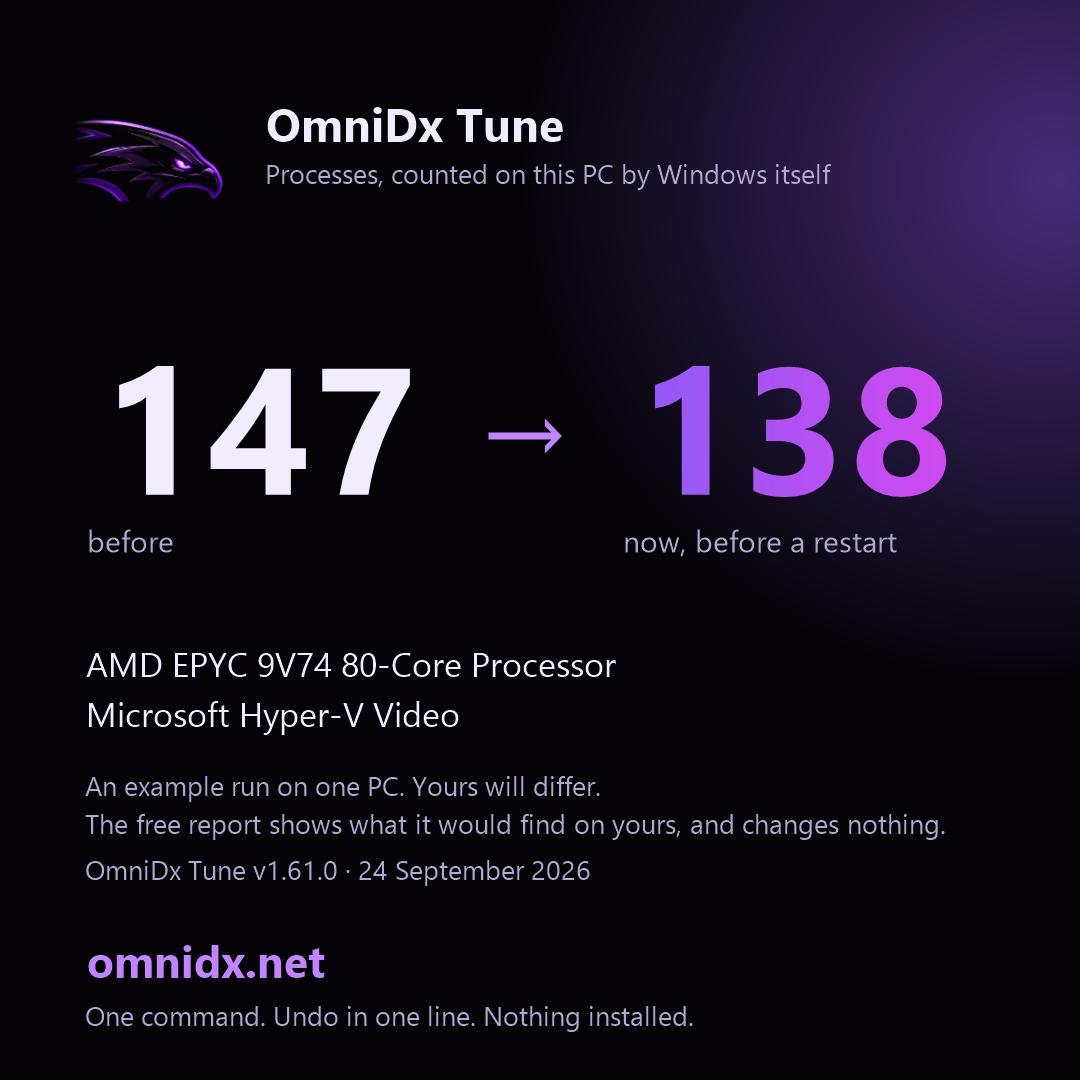
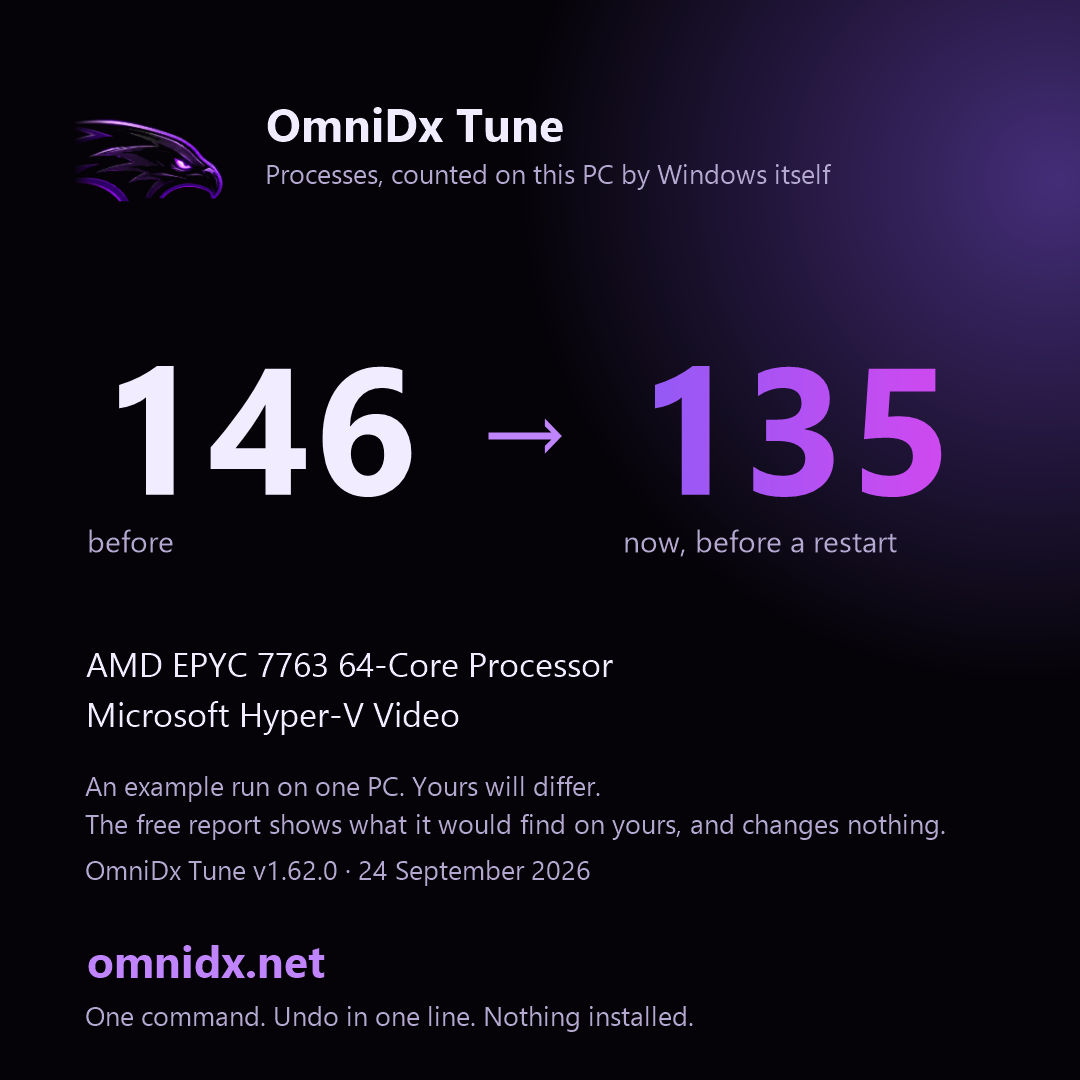
Windows check: the app window, the numbers, the log, and the script this run verified

diff --git a/studio/assets/ci-report.html b/studio/assets/ci-report.html
@@ -1,5 +1,5 @@
 <!doctype html><html lang="en"><head><meta charset="utf-8"><meta name="viewport" content="width=device-width,initial-scale=1">
-<title>OmniDx Tune report - 2026-09-24_09-20-35</title>
+<title>OmniDx Tune report - 2026-09-24_09-37-21</title>
 <style>
 body{margin:0;background:#050308;color:#f1ecff;font:15px/1.6 -apple-system,'Segoe UI',Roboto,system-ui,sans-serif}
 main{max-width:860px;margin:0 auto;padding:36px 20px 80px}
@@ -17,29 +17,84 @@ details{margin:10px 0;background:#0e0a17;border:1px solid #2a1f45;border-radius:
 details pre{font:12.5px/1.5 ui-monospace,Consolas,monospace;color:#b3a8cf;overflow:auto;max-height:420px;margin:10px 0 4px}
 .bios ul{list-style:none;padding-left:2px}.bios li{margin:8px 0;color:#f1ecff}.bios{background:#0e0a17;border:1px solid #2a1f45;border-radius:14px;padding:6px 18px}
 </style></head><body><main>
-<h1><img src="https://omnidx.net/studio/assets/icons/icon-192.png" alt="" width="44" height="44" style="vertical-align:middle;margin-right:10px" onerror="this.remove()">OmniDx Tune <span class="muted" style="font-size:16px">v1.61.0</span></h1>
-<p class="sub">Thursday, September 24, 2026 9:22 AM &middot; AMD EPYC 9V74 80-Core Processor &middot; Microsoft Hyper-V Video &middot; 16 GB &middot; Microsoft Corporation Virtual Machine</p>
-<div class="big"><div><b>147</b><span>processes before</span></div><div><b>138</b><span>now, before a restart</span></div><div><b>~70</b><span>target for this PC after a restart</span></div></div>
+<h1><img src="https://omnidx.net/studio/assets/icons/icon-192.png" alt="" width="44" height="44" style="vertical-align:middle;margin-right:10px" onerror="this.remove()">OmniDx Tune <span class="muted" style="font-size:16px">v1.62.0</span></h1>
+<p class="sub">Thursday, September 24, 2026 9:38 AM &middot; AMD EPYC 7763 64-Core Processor &middot; Microsoft Hyper-V Video &middot; 16 GB &middot; Microsoft Corporation Virtual Machine</p>
+<div class="big"><div><b>146</b><span>processes before</span></div><div><b>135</b><span>now, before a restart</span></div><div><b>~70</b><span>target for this PC after a restart</span></div></div>
 <p class='muted'>The card, for posting (the same numbers, on one picture): <code>ci-card.png</code></p><img src='ci-card.png' alt='Before and after, on a card' style='max-width:340px;width:100%;border-radius:14px;border:1px solid #2a1f45'>
 <p class="muted">Many of the "now" processes are only waiting to be stopped. The number after a restart is the one that counts; <code>C:\OmniDx\after-restart.txt</code> gets it at your next sign-in. Kept cut: a task at each sign-in puts back what a Windows update turns on; undo removes it.</p>
 <h2>Next steps</h2><ol><li>Restart. The services told to stop are still unwinding until you do, and the after-restart count lands in C:\OmniDx\after-restart.txt at your next sign-in, with the boot time of that start next to the one from before the tune.</li><li>BIOS: items 1 to 3 (memory profile, Re-Size BAR, CSM). Ten minutes, and the memory profile alone is the biggest free gain any PC has.</li><li>GPU control panel: low latency mode, power management and V-Sync, from the list below. Two minutes.</li><li>Launchers and overlays: the list below names the one or two settings in each that matter; the overlays are the usual cause of a stutter that &quot;came from nowhere&quot;.</li><li>Any time: $env:OMNIDX_MODE=&#39;status&#39;; irm omnidx.net/go.ps1 | iex shows what is still in place; undo is one line, and it is in this report.</li></ol>
-<h2>Before and after</h2><table><tr><th></th><th>Before</th><th>Now</th></tr><tr><td>Processes</td><td>147</td><td>138</td></tr><tr><td>Threads</td><td>1394</td><td>1401</td></tr><tr><td>Handles</td><td>50094</td><td>47551</td></tr><tr><td>Memory in use</td><td>3165 MB</td><td>3359 MB</td></tr><tr><td>Idle CPU</td><td>2%</td><td>3.6%</td></tr><tr><td>DPC time</td><td>0.13%</td><td>0.13%</td></tr></table>
-<h2>Gone, by name</h2><p class='muted'>Running before, not running now: spoolsv, VSSVC</p>
-<details><summary>Every process, before (60 names)</summary><pre>svchost                                  x78     1,193 MB
+<h2>Before and after</h2><table><tr><th></th><th>Before</th><th>Now</th></tr><tr><td>Processes</td><td>146</td><td>135</td></tr><tr><td>Threads</td><td>1463</td><td>1445</td></tr><tr><td>Handles</td><td>48860</td><td>46353</td></tr><tr><td>Memory in use</td><td>2797 MB</td><td>2905 MB</td></tr><tr><td>Idle CPU</td><td>1.4%</td><td>0.9%</td></tr><tr><td>DPC time</td><td>0.13%</td><td>0%</td></tr></table>
+<h2>Gone, by name</h2><p class='muted'>Running before, not running now: smartscreen, spoolsv</p>
+<details><summary>Every process, before (56 names)</summary><pre>svchost                                  x80     1,207 MB
 conhost                                  x4         34 MB
-taskhostw                                x3         92 MB
+taskhostw                                x3         68 MB
+WmiPrvSE                                 x3         62 MB
 csrss                                    x2         14 MB
 fontdrvhost                              x2         11 MB
 notepad                                  x2         59 MB
 SMSvcHost                                x2         50 MB
-WmiPrvSE                                 x2         44 MB
-AzureArcSysTray                          x1         20 MB
-CompatTelRunner                          x1         32 MB
-ctfmon                                   x1         31 MB
+AzureArcSysTray                          x1         19 MB
+ctfmon                                   x1         25 MB
 DefenderSessionHelper                    x1          6 MB
 dockerd                                  x1         46 MB
 dwm                                      x1         76 MB
-explorer                                 x1        160 MB
+explorer                                 x1        159 MB
+hosted-compute-agent                     x1         19 MB
+Idle                                     x1          0 MB
+LsaIso                                   x1          4 MB
+lsass                                    x1         31 MB
+MpDefenderCoreService                    x1         30 MB
+mqsvc                                    x1         19 MB
+msdtc                                    x1         14 MB
+MsMpEng                                  x1        101 MB
+node                                     x1         43 MB
+OpenConsole                              x1         14 MB
+powershell                               x1        166 MB
+provjobd.exe3302063047                   x1         26 MB
+Registry                                 x1         43 MB
+Runner.Listener                          x1         71 MB
+Runner.Worker                            x1        101 MB
+RuntimeBroker                            x1         47 MB
+SearchHost                               x1        109 MB
+Secure System                            x1         52 MB
+SecurityHealthService                    x1         12 MB
+ServiceFabricLocalClusterManager         x1         36 MB
+services                                 x1         12 MB
+ShellHost                                x1         42 MB
+sihost                                   x1         43 MB
+smartscreen                              x1         12 MB
+smss                                     x1          2 MB
+spoolsv                                  x1         22 MB
+sqlwriter                                x1         11 MB
+sshd                                     x1          9 MB
+StartMenuExperienceHost                  x1        130 MB
+System                                   x1          0 MB
+TiWorker                                 x1         27 MB
+TrustedInstaller                         x1         10 MB
+UserOOBEBroker                           x1         11 MB
+vmcompute                                x1         11 MB
+vmms                                     x1         33 MB
+WaAppAgent                               x1         86 MB
+WaSecAgentProv                           x1          5 MB
+WindowsAzureGuestAgent                   x1         69 MB
+WindowsTerminal                          x1         85 MB
+wininit                                  x1          9 MB
+winlogon                                 x1         13 MB
+wslservice                               x1         29 MB</pre></details><details><summary>Every process, after (55 names)</summary><pre>svchost                                  x70     1,064 MB
+conhost                                  x4         34 MB
+taskhostw                                x3         66 MB
+WmiPrvSE                                 x3         68 MB
+csrss                                    x2         14 MB
+fontdrvhost                              x2         11 MB
+notepad                                  x2         59 MB
+SMSvcHost                                x2         50 MB
+AzureArcSysTray                          x1         20 MB
+ctfmon                                   x1         31 MB
+DefenderSessionHelper                    x1          6 MB
+dllhost                                  x1         13 MB
+dockerd                                  x1         46 MB
+dwm                                      x1         76 MB
+explorer                                 x1        158 MB
 hosted-compute-agent                     x1         17 MB
 Idle                                     x1          0 MB
 LsaIso                                   x1          4 MB
@@ -47,102 +102,39 @@ lsass                                    x1         31 MB
 MpDefenderCoreService                    x1         30 MB
 mqsvc                                    x1         19 MB
 msdtc                                    x1         14 MB
-MsMpEng                                  x1         77 MB
-node                                     x1         43 MB
-OpenConsole                              x1         14 MB
-powershell                               x1        170 MB
-provjobd.exe2108833472                   x1         21 MB
-Registry                                 x1         58 MB
-Runner.Listener                          x1         71 MB
-Runner.Worker                            x1        100 MB
-RuntimeBroker                            x1         48 MB
-SearchHost                               x1        109 MB
-Secure System                            x1         52 MB
-SecurityHealthService                    x1         28 MB
-ServiceFabricLocalClusterManager         x1         36 MB
-services                                 x1         11 MB
-ShellHost                                x1         42 MB
-sihost                                   x1         43 MB
-smartscreen                              x1         13 MB
-smss                                     x1          2 MB
-spoolsv                                  x1         22 MB
-sqlwriter                                x1         11 MB
-sshd                                     x1          9 MB
-StartMenuExperienceHost                  x1        130 MB
-System                                   x1          0 MB
-SystemPropertiesPerformance              x1         14 MB
-TiWorker                                 x1         28 MB
-TrustedInstaller                         x1         10 MB
-UserOOBEBroker                           x1         11 MB
-vmcompute                                x1         11 MB
-vmms                                     x1         34 MB
-VSSVC                                    x1         12 MB
-WaAppAgent                               x1         84 MB
-WaSecAgentProv                           x1          5 MB
-WindowsAzureGuestAgent                   x1         65 MB
-WindowsTerminal                          x1         85 MB
-wininit                                  x1          9 MB
-winlogon                                 x1         13 MB
-wslservice                               x1         28 MB
-WUDFHost                                 x1         12 MB</pre></details><details><summary>Every process, after (59 names)</summary><pre>svchost                                  x70     1,062 MB
-conhost                                  x4         34 MB
-taskhostw                                x3         91 MB
-csrss                                    x2         14 MB
-fontdrvhost                              x2         11 MB
-notepad                                  x2         59 MB
-SMSvcHost                                x2         50 MB
-WmiPrvSE                                 x2         52 MB
-AzureArcSysTray                          x1         20 MB
-CompatTelRunner                          x1         32 MB
-ctfmon                                   x1         31 MB
-DefenderSessionHelper                    x1          6 MB
-dllhost                                  x1         13 MB
-dockerd                                  x1         46 MB
-dwm                                      x1         76 MB
-explorer                                 x1        161 MB
-hosted-compute-agent                     x1         16 MB
-Idle                                     x1          0 MB
-LsaIso                                   x1          4 MB
-lsass                                    x1         31 MB
-MpDefenderCoreService                    x1         30 MB
-mqsvc                                    x1         19 MB
-msdtc                                    x1         14 MB
-MsMpEng                                  x1         76 MB
+MsMpEng                                  x1         96 MB
 node                                     x1         41 MB
 OpenConsole                              x1         14 MB
-powershell                               x1        212 MB
-provjobd.exe2108833472                   x1         20 MB
-Registry                                 x1         64 MB
-Runner.Listener                          x1         62 MB
-Runner.Worker                            x1         94 MB
+powershell                               x1        193 MB
+provjobd.exe3302063047                   x1         21 MB
+Registry                                 x1         65 MB
+Runner.Listener                          x1         73 MB
+Runner.Worker                            x1        100 MB
 RuntimeBroker                            x1         47 MB
 SearchHost                               x1        109 MB
 Secure System                            x1         52 MB
-SecurityHealthService                    x1         28 MB
+SecurityHealthService                    x1         12 MB
 ServiceFabricLocalClusterManager         x1         36 MB
 services                                 x1         11 MB
 ShellHost                                x1         42 MB
 sihost                                   x1         43 MB
-smartscreen                              x1         13 MB
 smss                                     x1          2 MB
 sqlwriter                                x1         11 MB
 sshd                                     x1          9 MB
 StartMenuExperienceHost                  x1        131 MB
 System                                   x1          0 MB
-SystemPropertiesPerformance              x1         14 MB
-TiWorker                                 x1         39 MB
+TiWorker                                 x1         38 MB
 TrustedInstaller                         x1         10 MB
 UserOOBEBroker                           x1         11 MB
 vmcompute                                x1         11 MB
 vmms                                     x1         34 MB
-WaAppAgent                               x1         84 MB
+WaAppAgent                               x1         87 MB
 WaSecAgentProv                           x1          5 MB
-WindowsAzureGuestAgent                   x1         65 MB
+WindowsAzureGuestAgent                   x1         69 MB
 WindowsTerminal                          x1         85 MB
 wininit                                  x1          9 MB
 winlogon                                 x1         13 MB
-wslservice                               x1         28 MB
-WUDFHost                                 x1         12 MB</pre></details>
+wslservice                               x1         29 MB</pre></details>
 <h2>Kept, and why</h2><ul><li>Defender, the firewall, Windows Update, audio, networking: always</li><li>Themes: Windows 10 falls back to the classic look without it</li><li>vmicguestinterface: this is a virtual machine</li><li>vmicheartbeat: this is a virtual machine</li><li>vmickvpexchange: this is a virtual machine</li><li>vmicrdv: this is a virtual machine</li><li>vmicshutdown: this is a virtual machine</li><li>vmictimesync: this is a virtual machine</li><li>vmicvmsession: this is a virtual machine</li><li>vmicvss: this is a virtual machine</li></ul>
 <h2>Warnings (3)</h2><div class="warn"><ul><li>The GPU driver dates from Jun 2006. A current driver is worth more than most tweaks.</li><li>This looks like a virtual machine. The tune will run, but the numbers mean little here.</li><li>Could not make a restore point (This functionality is not supported on this operating system.). The undo script still records everything.</li></ul></div>
 <h2>BIOS checklist for Microsoft Corporation Virtual Machine</h2><div class="bios"><ul><li>How to get in: restart, then press Del or F2 while the logo shows.</li><li>Where things are: the Advanced / Overclocking pages for memory, the PCI or Chipset page for Above 4G / Re-Size BAR, the Boot page for CSM, the Security page for TPM and Secure Boot.</li><li>1. Memory profile: enable EXPO (or DOCP / A-XMP on older boards). Your RAM is running at the slow default until you do; this is the single biggest free gain on any PC. Pick the profile matching the speed printed on the sticks.</li><li>2. Re-Size BAR / Smart Access Memory: set Above 4G Decoding = Enabled, then Re-Size BAR Support = Auto/Enabled. Needs CSM off (next line). Worth 5-15% in many games on RTX 30/40/50 and RX 6000+.</li><li>3. CSM (Compatibility Support Module): Disabled. You already boot UEFI, so nothing depends on it, and Re-Size BAR needs it off.</li><li>4. Secure Boot: Enabled. Windows 11 and Vanguard expect it; on 10 it costs nothing. Set OS Type / Secure Boot Mode to Windows UEFI if asked.</li><li>5. TPM: not detected. Enable AMD fTPM (AMD) or Intel PTT (Intel) under Security / Trusted Computing. VALORANT on Windows 11 will not run without it.</li><li>6. Precision Boost Overdrive: Enabled (or Advanced with the Curve Optimizer at a modest negative offset like -15 all-core if you know your cooler). Never a positive voltage offset.</li><li>7. Global C-states / package C-states: Auto is fine. Disabling them buys nothing measurable in games and raises idle heat.</li><li>8. Fast Boot: Enabled. Full Screen Logo / Boot Logo: Disabled (a second off every boot).</li><li>9. Fan curves: set the CPU fan to reach 100% by 80 C and the case fans to a steady ramp. Sustained boost needs airflow more than anything.</li><li>10. Onboard devices you do not use: serial port, Wi-Fi/Bluetooth if wired, onboard audio if you use USB audio, RGB controllers. Each one removed is an interrupt source gone.</li><li>11. HPET: leave at default. The &#39;disable HPET&#39; tweak is from 2013 and hurts more than it helps on modern Windows.</li><li>12. Virtualisation (SVM / VT-x): leave on if you use WSL, Docker, an emulator, or play VALORANT or on FACEIT (their anti-cheat needs it, with IOMMU); otherwise off saves a little scheduling overhead.</li><li>After saving: Windows will boot normally. If it does not (rare, usually CSM), go back in and re-enable the last thing you changed.</li><li>Do not update the BIOS unless the vendor&#39;s notes mention a fix for your exact problem; a failed flash is the one thing here that cannot be undone from Windows.</li></ul></div>
@@ -150,8 +142,8 @@ WUDFHost                                 x1         12 MB</pre></details>
 <h2>Launchers, overlays and helper apps</h2><ul><li>None of the usual launchers, overlays or peripheral suites found. The same notes apply the day you install one; run the command again and they appear here.</li></ul>
 <h2>Left by other tools</h2><p class="muted">The tune changes none of these; it names them, with the way back.</p><ul><li>Nothing found: no other tool has left Defender, Windows Update, SmartScreen, User Account Control or the CPU mitigations switched off on this PC.</li></ul>
 <h2>Per game</h2><p class='muted'>Not found on this PC (the same profile applies if you install them): Fortnite, VALORANT, Counter-Strike 2, Marvel Rivals, Apex Legends, Call of Duty (Warzone / MW), Overwatch 2, Rainbow Six Siege, Rocket League, Minecraft, Roblox, League of Legends, GTA V / Online, Rust, Escape from Tarkov, PUBG, The Finals, Dota 2, Battlefield 6, Deadlock, Delta Force, ARC Raiders, Helldivers 2, Warframe, Destiny 2, Halo Infinite, Dead by Daylight, Hunt: Showdown 1896, War Thunder, World of Warcraft, Squad, Battlefield 2042, EA Sports FC 26, NBA 2K26, Palworld, Path of Exile 2, Diablo IV, Monster Hunter Wilds, Elden Ring / Nightreign, Cyberpunk 2077, Baldur&#39;s Gate 3, Star Citizen, DayZ, Arma Reforger, Hell Let Loose, Genshin Impact, Ready or Not, Final Fantasy XIV, STALKER 2, Sea of Thieves</p>
-<h2>What was done</h2><h4>Safety first</h4><div class='did'>Registry and service list backed up to C:\OmniDx\backup\2026-09-24_09-20-35</div><div class='did'>undo.ps1 written to C:\OmniDx\undo</div><h4>Startup apps</h4><div class='did'>off: AzureArcSetup</div><div class='did'>off: Service Fabric Local Cluster Manager (Startup folder)</div><h4>Services</h4><div class='did'>dmwappushservice -&gt; disabled  (telemetry push)</div><div class='did'>WerSvc -&gt; disabled  (error reporting)</div><div class='did'>wercplsupport -&gt; disabled  (error reporting)</div><div class='did'>PcaSvc -&gt; disabled  (compatibility assistant)</div><div class='did'>lfsvc -&gt; disabled  (geolocation)</div><div class='did'>RemoteRegistry -&gt; disabled  (remote registry)</div><div class='did'>WMPNetworkSvc -&gt; disabled  (media sharing)</div><div class='did'>TrkWks -&gt; disabled  (link tracking)</div><div class='did'>WalletService -&gt; disabled  (wallet)</div><div class='did'>wisvc -&gt; disabled  (insider program)</div><div class='did'>SEMgrSvc -&gt; disabled  (payments and NFC)</div><div class='did'>TapiSrv -&gt; disabled  (telephony)</div><div class='did'>SharedAccess -&gt; disabled  (internet connection sharing)</div><div class='did'>edgeupdate -&gt; manual  (Edge updater (runs on demand))</div><div class='did'>WbioSrvc -&gt; disabled  (biometrics)</div><div class='did'>SysMain already disabled; left that way</div><div class='did'>WSearch already disabled; left that way</div><div class='did'>Spooler -&gt; disabled  (print spooler)</div><div class='did'>bthserv -&gt; disabled  (bluetooth)</div><div class='did'>WlanSvc -&gt; disabled  (wi-fi)</div><div class='did'>CDPSvc -&gt; manual  (connected devices)</div><div class='did'>CDPUserSvc already disabled; left that way</div><div class='did'>OneSyncSvc already disabled; left that way</div><div class='did'>PimIndexMaintenanceSvc already disabled; left that way</div><div class='did'>UnistoreSvc already disabled; left that way</div><div class='did'>UserDataSvc already disabled; left that way</div><div class='did'>SSDPSRV already disabled; left that way</div><div class='did'>upnphost already disabled; left that way</div><div class='did'>DPS -&gt; manual  (diagnostic policy)</div><div class='did'>SCardSvr -&gt; disabled  (smart card)</div><div class='did'>ScDeviceEnum -&gt; disabled  (smart card)</div><div class='did'>CertPropSvc -&gt; disabled  (smart card)</div><div class='did'>iphlpsvc -&gt; manual  (ipv6 tunnels)</div><div class='did'>cbdhsvc -&gt; manual  (clipboard history)</div><div class='did'>WpnService -&gt; manual  (push notifications)</div><div class='did'>WpnUserService -&gt; manual  (push notifications)</div><div class='did'>SNMPTRAP -&gt; disabled  (SNMP traps)</div><div class='did'>workfolderssvc -&gt; disabled  (Work Folders sync)</div><h4>Scheduled tasks</h4><div class='did'>PcaPatchDbTask</div><div class='did'>CreateObjectTask</div><div class='did'>Device</div><div class='did'>Device User</div><div class='did'>LoginCheck</div><div class='did'>WindowsActionDialog</div><div class='did'>OobeDiscovery</div><div class='did'>Diagnostics</div><div class='did'>UsageDataFlushing</div><div class='did'>UsageDataReporting</div><div class='did'>Registration</div><div class='did'>IndexerAutomaticMaintenance</div><div class='did'>Storage Tiers Management Initialization</div><div class='did'>UPnPHostConfig</div><div class='did'>ResolutionHost</div><div class='did'>UpdateLibrary</div><div class='did'>Work Folders Logon Synchronization</div><div class='did'>Work Folders Maintenance Work</div><h4>Preinstalled apps</h4><div class='did'>Microsoft.WindowsFeedbackHub</div><h4>Debloat</h4><div class='did'>removed Steps Recorder (screenshots every click, retired by Microsoft)</div><div class='did'>removed the 2009 Windows Media Player (the Store one stays)</div><div class='did'>removed Math Input Panel</div><div class='did'>removed Internet Explorer 11</div><div class='did'>off: Work Folders (corporate sync)</div><div class='did'>Edge: shopping assistant, recommendations, Spotlight, feedback prompts and reporting off</div><div class='did'>Kept gone: consumer features, suggested apps, account nags and the &#39;finish setting up&#39; screen are off by policy</div><h4>Telemetry, background activity, the shell</h4><div class='did'>Telemetry, the advertising id, activity history, suggestions, Bing in Start, Recall and Edge&#39;s reporting off; background apps off; widgets, news, Copilot and Cortana off; Game DVR off, Game Mode on; the classic right-click menu on 11</div><h4>System tuning</h4><div class='did'>NTFS last-access stamps off</div><div class='did'>NTFS allowed more memory for its cache</div><div class='did'>Defender&#39;s scheduled scans already capped at 5% of the CPU, lower than the tune&#39;s 25%: left as it is</div><h4>The OmniDx power plan</h4><div class='did'>2 plan setting(s) this PC does not have were skipped.</div><div class='did'>OmniDx plan created and active: CPU 100/100, boost aggressive, energy preference on performance, no core parking, no throttle states on a desktop, PCIe, USB and Wi-Fi power saving off, no sleep on mains.</div><h4>Network</h4><div class='did'>TCP: autotuning normal, ECN and timestamps off, receive-side scaling on, segment coalescing off, CTCP.</div><div class='did'>Ethernet 4: Interrupt Moderation off</div><div class='did'>Ethernet 4: Nagle off, power saving off</div><div class='did'>Ethernet 3: Nagle off, power saving off</div><h4>Discord, Spotify, browsers</h4><div class='did'>Chrome: no background mode, hardware acceleration on</div><div class='did'>Edge: no startup boost, no background mode, hardware acceleration on</div><h4>Game profiles</h4><div class='did'>No listed game found on the usual drives; the CPU-priority profiles are in place for when one is installed.</div><h4>Cleanup</h4><div class='did'>Temp files, the Windows Update download cache and the peer-to-peer update cache cleared: about 374 MB back.</div><h4>Keeping it cut</h4><div class='did'>Task &#39;OmniDx keep&#39; runs three minutes after sign-in, puts back whatever an update turned on, notes that start&#39;s boot time and writes card-after-restart.png with that start&#39;s count. Log: C:\OmniDx\keep-log.txt. Undo removes it.</div>
-<h2>Undo</h2><p>Administrator PowerShell: <code>powershell -ExecutionPolicy Bypass -File C:\OmniDx\undo\undo.ps1</code><br>No restore point was made on this run (see the warnings); the undo script is the way back.<br>Changes recorded in <code>C:\OmniDx\undo\changes-2026-09-24_09-20-35.json</code>.</p>
+<h2>What was done</h2><h4>Safety first</h4><div class='did'>Registry and service list backed up to C:\OmniDx\backup\2026-09-24_09-37-21</div><div class='did'>undo.ps1 written to C:\OmniDx\undo</div><h4>Startup apps</h4><div class='did'>off: AzureArcSetup</div><div class='did'>off: Service Fabric Local Cluster Manager (Startup folder)</div><h4>Services</h4><div class='did'>dmwappushservice -&gt; disabled  (telemetry push)</div><div class='did'>WerSvc -&gt; disabled  (error reporting)</div><div class='did'>wercplsupport -&gt; disabled  (error reporting)</div><div class='did'>PcaSvc -&gt; disabled  (compatibility assistant)</div><div class='did'>lfsvc -&gt; disabled  (geolocation)</div><div class='did'>RemoteRegistry -&gt; disabled  (remote registry)</div><div class='did'>WMPNetworkSvc -&gt; disabled  (media sharing)</div><div class='did'>TrkWks -&gt; disabled  (link tracking)</div><div class='did'>WalletService -&gt; disabled  (wallet)</div><div class='did'>wisvc -&gt; disabled  (insider program)</div><div class='did'>SEMgrSvc -&gt; disabled  (payments and NFC)</div><div class='did'>TapiSrv -&gt; disabled  (telephony)</div><div class='did'>SharedAccess -&gt; disabled  (internet connection sharing)</div><div class='did'>edgeupdate -&gt; manual  (Edge updater (runs on demand))</div><div class='did'>WbioSrvc -&gt; disabled  (biometrics)</div><div class='did'>SysMain already disabled; left that way</div><div class='did'>WSearch already disabled; left that way</div><div class='did'>Spooler -&gt; disabled  (print spooler)</div><div class='did'>bthserv -&gt; disabled  (bluetooth)</div><div class='did'>WlanSvc -&gt; disabled  (wi-fi)</div><div class='did'>CDPSvc -&gt; manual  (connected devices)</div><div class='did'>CDPUserSvc already disabled; left that way</div><div class='did'>OneSyncSvc already disabled; left that way</div><div class='did'>PimIndexMaintenanceSvc already disabled; left that way</div><div class='did'>UnistoreSvc already disabled; left that way</div><div class='did'>UserDataSvc already disabled; left that way</div><div class='did'>SSDPSRV already disabled; left that way</div><div class='did'>upnphost already disabled; left that way</div><div class='did'>DPS -&gt; manual  (diagnostic policy)</div><div class='did'>SCardSvr -&gt; disabled  (smart card)</div><div class='did'>ScDeviceEnum -&gt; disabled  (smart card)</div><div class='did'>CertPropSvc -&gt; disabled  (smart card)</div><div class='did'>iphlpsvc -&gt; manual  (ipv6 tunnels)</div><div class='did'>cbdhsvc -&gt; manual  (clipboard history)</div><div class='did'>WpnService -&gt; manual  (push notifications)</div><div class='did'>WpnUserService -&gt; manual  (push notifications)</div><div class='did'>SNMPTRAP -&gt; disabled  (SNMP traps)</div><div class='did'>workfolderssvc -&gt; disabled  (Work Folders sync)</div><h4>Scheduled tasks</h4><div class='did'>PcaPatchDbTask</div><div class='did'>CreateObjectTask</div><div class='did'>Device</div><div class='did'>Device User</div><div class='did'>LoginCheck</div><div class='did'>WindowsActionDialog</div><div class='did'>OobeDiscovery</div><div class='did'>Diagnostics</div><div class='did'>UsageDataFlushing</div><div class='did'>UsageDataReporting</div><div class='did'>Registration</div><div class='did'>IndexerAutomaticMaintenance</div><div class='did'>Storage Tiers Management Initialization</div><div class='did'>UPnPHostConfig</div><div class='did'>ResolutionHost</div><div class='did'>UpdateLibrary</div><div class='did'>Work Folders Logon Synchronization</div><div class='did'>Work Folders Maintenance Work</div><h4>Preinstalled apps</h4><div class='did'>Microsoft.WindowsFeedbackHub</div><h4>Debloat</h4><div class='did'>removed Steps Recorder (screenshots every click, retired by Microsoft)</div><div class='did'>removed the 2009 Windows Media Player (the Store one stays)</div><div class='did'>removed Math Input Panel</div><div class='did'>removed Internet Explorer 11</div><div class='did'>off: Work Folders (corporate sync)</div><div class='did'>Edge: shopping assistant, recommendations, Spotlight, feedback prompts and reporting off</div><div class='did'>Kept gone: consumer features, suggested apps, account nags and the &#39;finish setting up&#39; screen are off by policy</div><h4>Telemetry, background activity, the shell</h4><div class='did'>Telemetry, the advertising id, activity history, suggestions, Bing in Start, Recall and Edge&#39;s reporting off; background apps off; widgets, news, Copilot and Cortana off; Game DVR off, Game Mode on; the classic right-click menu on 11</div><h4>System tuning</h4><div class='did'>NTFS last-access stamps off</div><div class='did'>NTFS allowed more memory for its cache</div><div class='did'>Defender&#39;s scheduled scans already capped at 5% of the CPU, lower than the tune&#39;s 25%: left as it is</div><h4>The OmniDx power plan</h4><div class='did'>2 plan setting(s) this PC does not have were skipped.</div><div class='did'>OmniDx plan created and active: CPU 100/100, boost aggressive, energy preference on performance, no core parking, no throttle states on a desktop, PCIe, USB and Wi-Fi power saving off, no sleep on mains.</div><h4>Network</h4><div class='did'>TCP: autotuning normal, ECN and timestamps off, receive-side scaling on, segment coalescing off, CTCP.</div><div class='did'>Ethernet 4: Interrupt Moderation off</div><div class='did'>Ethernet 4: Nagle off, power saving off</div><div class='did'>Ethernet 3: Nagle off, power saving off</div><h4>Discord, Spotify, browsers</h4><div class='did'>Chrome: no background mode, hardware acceleration on</div><div class='did'>Edge: no startup boost, no background mode, hardware acceleration on</div><h4>Game profiles</h4><div class='did'>No listed game found on the usual drives; the CPU-priority profiles are in place for when one is installed.</div><h4>Cleanup</h4><div class='did'>Temp files, the Windows Update download cache and the peer-to-peer update cache cleared: about 374 MB back.</div><h4>Keeping it cut</h4><div class='did'>Task &#39;OmniDx keep&#39; runs three minutes after sign-in, puts back whatever an update turned on, notes that start&#39;s boot time and writes card-after-restart.png with that start&#39;s count. Log: C:\OmniDx\keep-log.txt. Undo removes it.</div>
+<h2>Undo</h2><p>Administrator PowerShell: <code>powershell -ExecutionPolicy Bypass -File C:\OmniDx\undo\undo.ps1</code><br>No restore point was made on this run (see the warnings); the undo script is the way back.<br>Changes recorded in <code>C:\OmniDx\undo\changes-2026-09-24_09-37-21.json</code>.</p>
 <h2>Status, any time</h2><p>What is still in place, what an update put back, the keep task and the after-restart count: <code>$env:OMNIDX_MODE='status'; irm omnidx.net/go.ps1 | iex</code><br><span class="muted">README.txt in C:\OmniDx says what each file there is.</span></p>
 <p class="muted" style="margin-top:40px">omnidx.net &middot; one payment, one PC, undo in one line.</p>
 </main></body></html>
